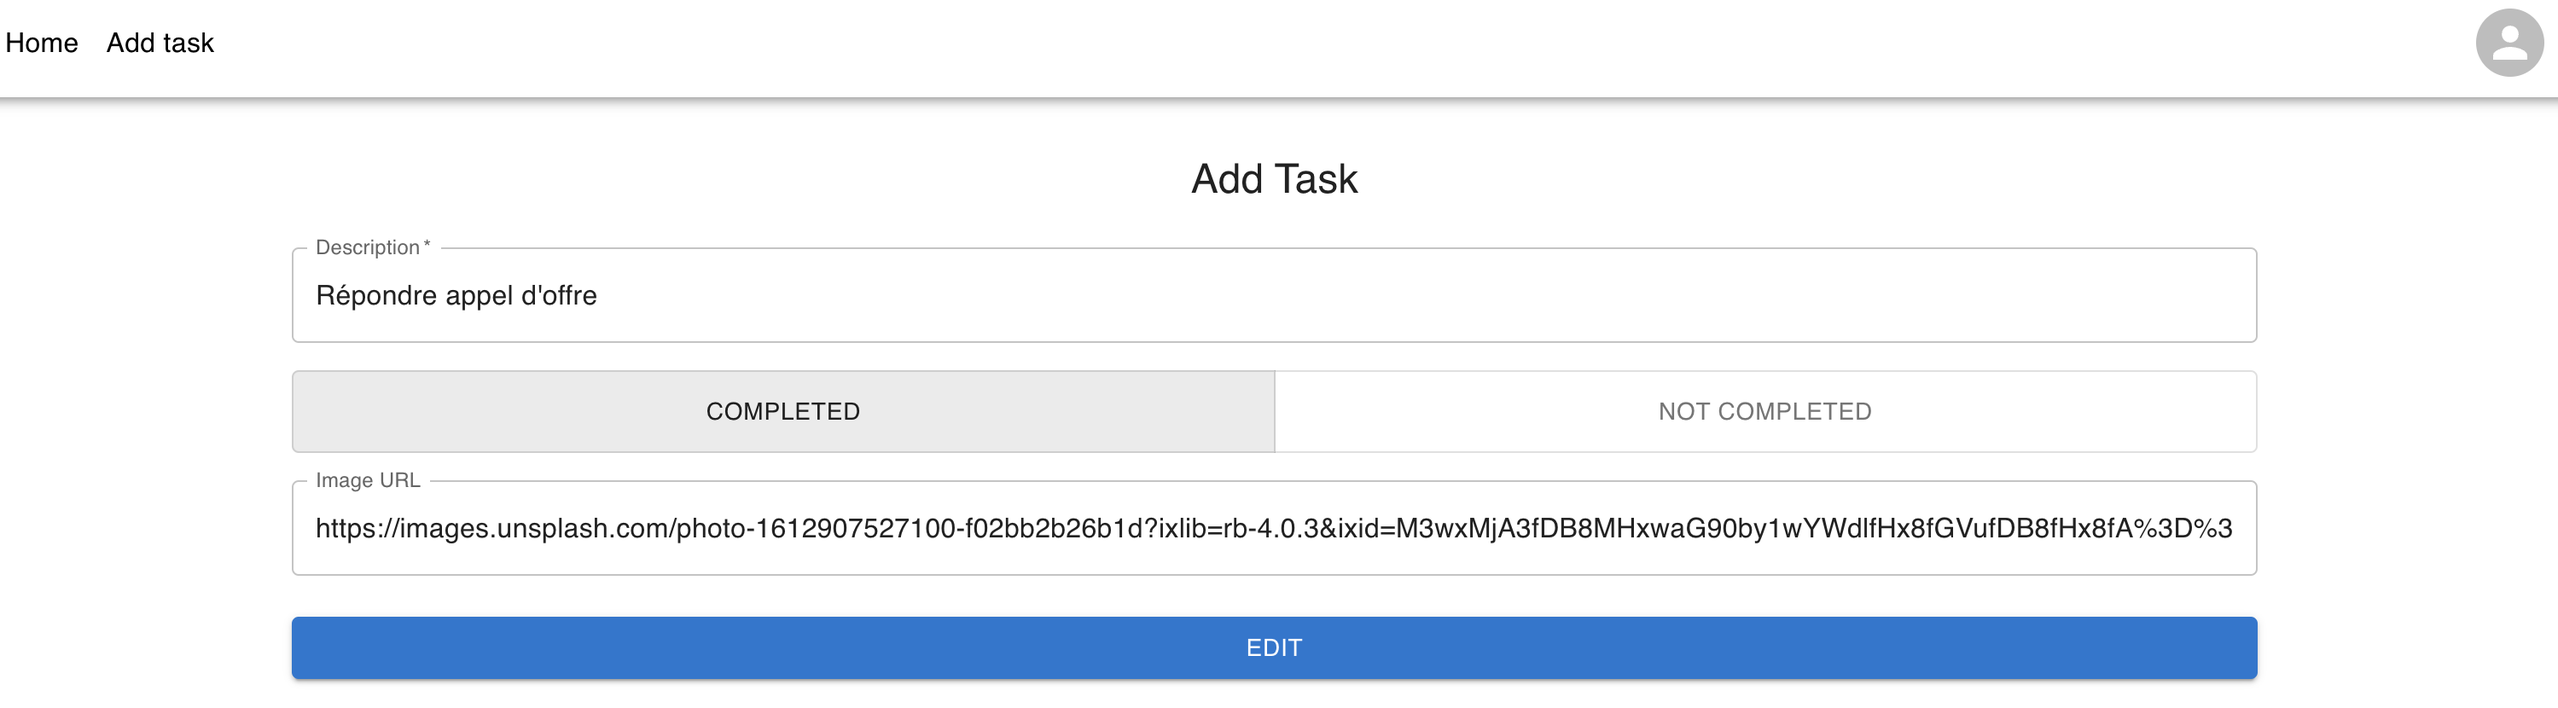
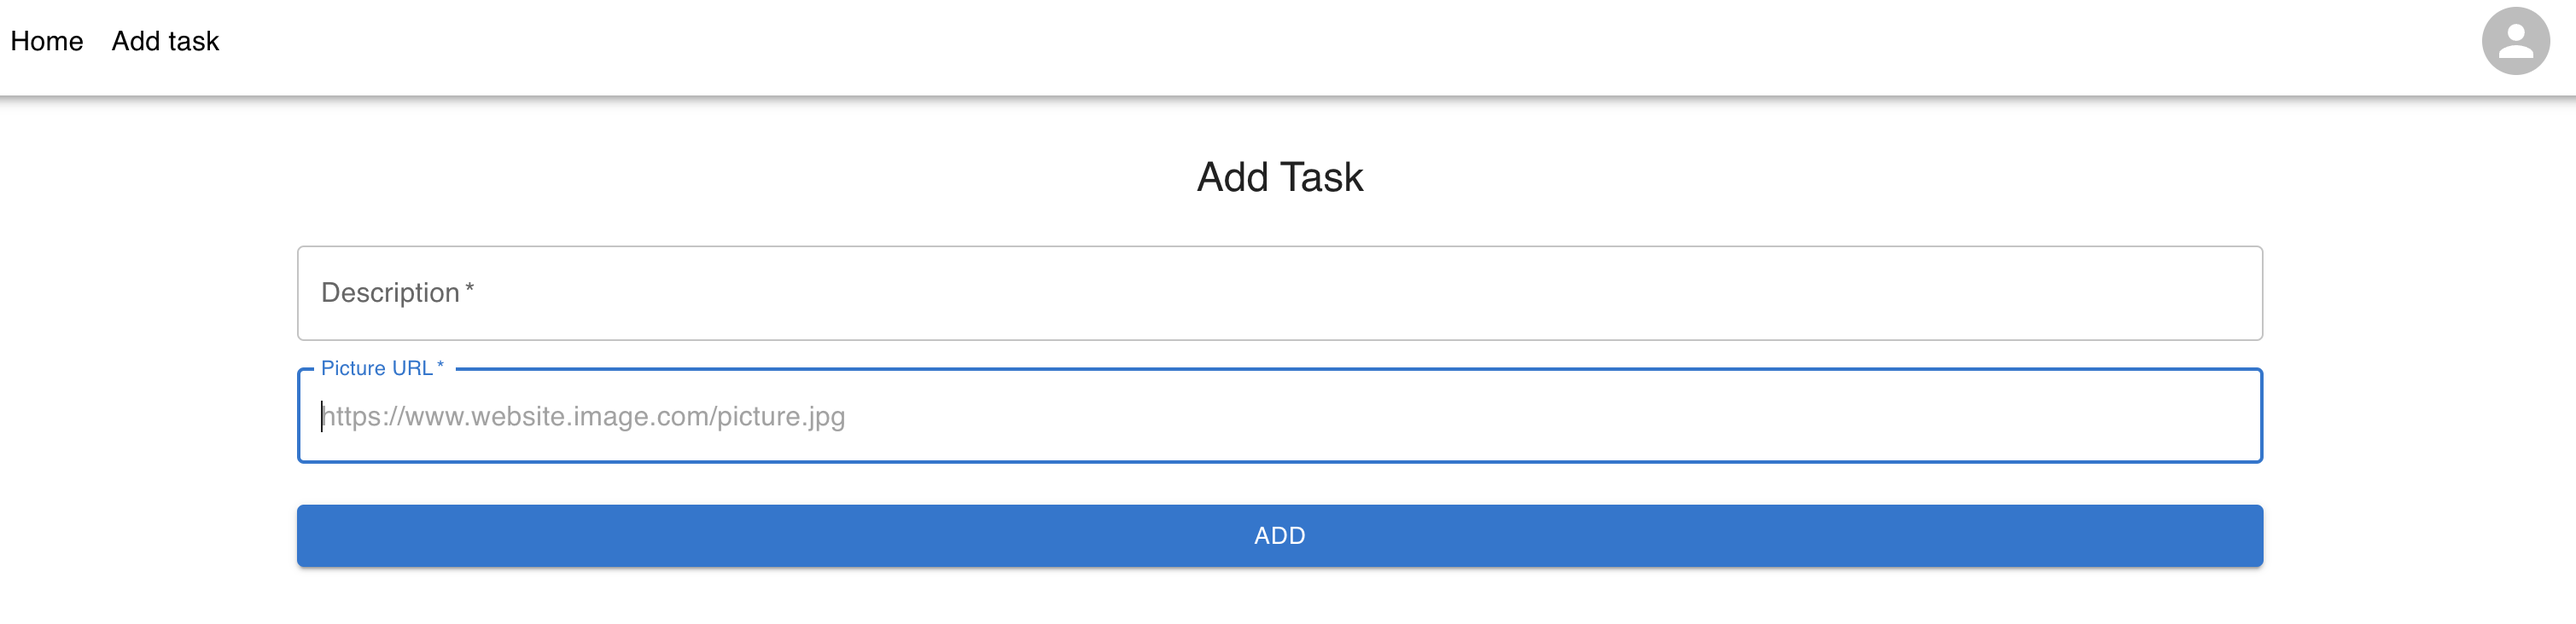
finish readme

diff --git a/src/components/EditTask.js b/src/components/EditTask.js
@@ -45,7 +45,7 @@ function EditTask() {
     return (<>
 
         <Container sx={{py: 4}}>
-            <Typography align="center" component="h1" variant="h5">Add Task</Typography>
+            <Typography align="center" component="h1" variant="h5">Edit Task</Typography>
             <Box component="form" noValidate onSubmit={handleSubmit(onSubmit)} sx={{mt: 3}}>
                 <Grid container spacing={2}>
                     <Grid item xs={12}>

diff --git a/README.md b/README.md
@@ -2,6 +2,18 @@
 
 This project was bootstrapped with [Create React App](https://github.com/facebook/create-react-app).
 
+# Aperçus
+
+Liste des tâches
+![New Web service](https://raw.githubusercontent.com/sauvageb/REACT_todolist_mui/main/images/1.png)
+
+Ajout d'une tache
+![New Web service](https://raw.githubusercontent.com/sauvageb/REACT_todolist_mui/main/images/2.png)
+
+Édition d'une tache
+
+![New Web service](https://raw.githubusercontent.com/sauvageb/REACT_todolist_mui/main/images/3.png)
+
 ## Dépendances
 
 - react v18.2
@@ -10,7 +22,7 @@ This project was bootstrapped with [Create React App](https://github.com/faceboo
 - icons-material 5
 - @emotion 11
 
-## Available Scripts
+## Scripts disponibles
 
 In the project directory, you can run:
 
